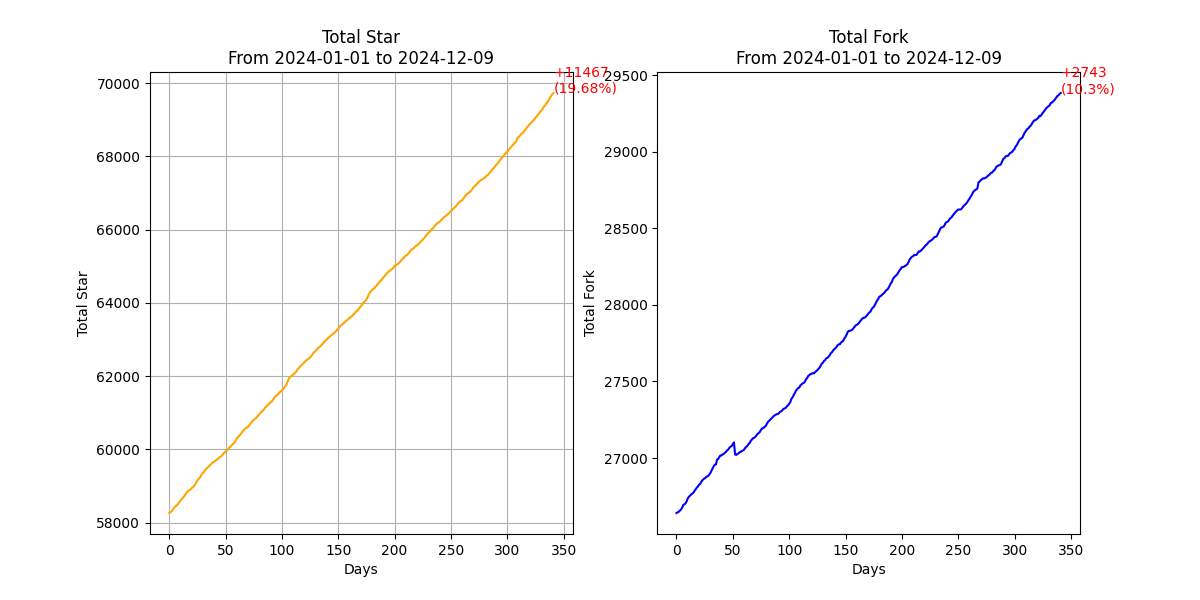
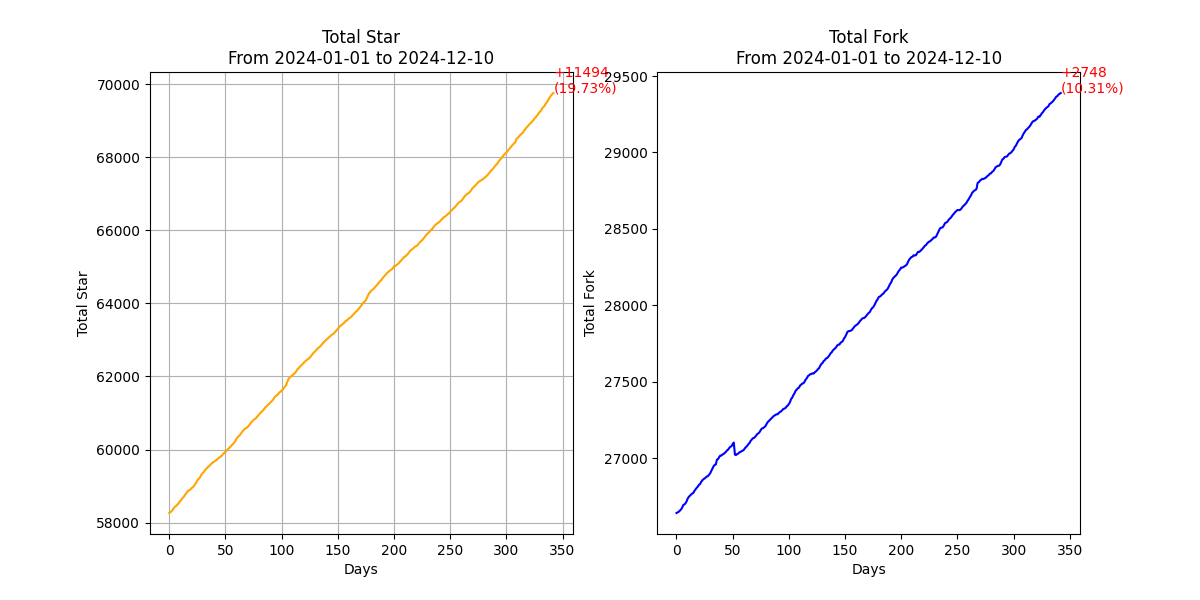
Update Espressif Systems Github Star Rank - 2024-12-10

diff --git a/rank_history/esp_rank_2024-12-09.md b/rank_history/esp_rank_2024-12-09.md
@@ -1,6 +1,6 @@
-# Espressif Systems Github Star Rank 2024-12-10
+# Espressif Systems Github Star Rank 2024-12-09
 
-## Total Star 🌟: 69800, Total Fork 🌳: 29395
+## Total Star 🌟: 69757, Total Fork 🌳: 29389
 
 [![Update Espressif Systems Github Star Rank](https://github.com/leeebo/espressif_star_counter/actions/workflows/update_rank.yml/badge.svg)](https://github.com/leeebo/espressif_star_counter/actions/workflows/update_rank.yml)
 
@@ -8,56 +8,56 @@
 
 | Repository | Stars | Forks | Description |
 |------------|-------|-------|-------------|
-| [esp-idf](https://github.com/espressif/esp-idf) | 13952 | 7338 | Espressif IoT Development Framework. Official development framework for Espressif SoCs. |
-| [arduino-esp32](https://github.com/espressif/arduino-esp32) | 13818 | 7448 | Arduino core for the ESP32 |
-| [esptool](https://github.com/espressif/esptool) | 5625 | 1388 | Espressif SoC serial bootloader utility |
-| [ESP8266_RTOS_SDK](https://github.com/espressif/ESP8266_RTOS_SDK) | 3352 | 1564 | Latest ESP8266 SDK based on FreeRTOS, esp-idf style. |
-| [esp-iot-solution](https://github.com/espressif/esp-iot-solution) | 2007 | 790 | Espressif IoT Library. IoT Device Drivers, Documentations and Solutions. |
-| [esp32-camera](https://github.com/espressif/esp32-camera) | 1958 | 649 | None |
-| [esp-who](https://github.com/espressif/esp-who) | 1720 | 469 | Face detection and recognition framework |
-| [esp-adf](https://github.com/espressif/esp-adf) | 1574 | 690 | Espressif Audio Development Framework |
-| [vscode-esp-idf-extension](https://github.com/espressif/vscode-esp-idf-extension) | 1089 | 308 | Visual Studio Code extension for ESP-IDF projects |
+| [esp-idf](https://github.com/espressif/esp-idf) | 13946 | 7337 | Espressif IoT Development Framework. Official development framework for Espressif SoCs. |
+| [arduino-esp32](https://github.com/espressif/arduino-esp32) | 13813 | 7446 | Arduino core for the ESP32 |
+| [esptool](https://github.com/espressif/esptool) | 5622 | 1388 | Espressif SoC serial bootloader utility |
+| [ESP8266_RTOS_SDK](https://github.com/espressif/ESP8266_RTOS_SDK) | 3351 | 1564 | Latest ESP8266 SDK based on FreeRTOS, esp-idf style. |
+| [esp-iot-solution](https://github.com/espressif/esp-iot-solution) | 2005 | 790 | Espressif IoT Library. IoT Device Drivers, Documentations and Solutions. |
+| [esp32-camera](https://github.com/espressif/esp32-camera) | 1956 | 649 | None |
+| [esp-who](https://github.com/espressif/esp-who) | 1719 | 469 | Face detection and recognition framework |
+| [esp-adf](https://github.com/espressif/esp-adf) | 1572 | 690 | Espressif Audio Development Framework |
+| [vscode-esp-idf-extension](https://github.com/espressif/vscode-esp-idf-extension) | 1087 | 308 | Visual Studio Code extension for ESP-IDF projects |
 | [ESP8266_NONOS_SDK](https://github.com/espressif/ESP8266_NONOS_SDK) | 932 | 536 | ESP8266 nonOS SDK |
 | [esp-at](https://github.com/espressif/esp-at) | 920 | 834 | AT application for ESP32/ESP32-C2/ESP32-C3/ESP32-C6/ESP8266 |
 | [esp-drone](https://github.com/espressif/esp-drone) | 843 | 244 | Mini Drone/Quadcopter Firmware for ESP32 and ESP32-S Series SoCs. |
-| [esp-box](https://github.com/espressif/esp-box) | 829 | 191 | The ESP-BOX is a new generation AIoT development platform released by Espressif Systems. |
+| [esp-box](https://github.com/espressif/esp-box) | 827 | 191 | The ESP-BOX is a new generation AIoT development platform released by Espressif Systems. |
 | [kicad-libraries](https://github.com/espressif/kicad-libraries) | 784 | 110 | KiCad libraries for Espressif SoCs, modules, and DevKits. |
 | [esp-mdf](https://github.com/espressif/esp-mdf) | 782 | 253 | Espressif Mesh Development Framework, limited maintain, recommend to use https://github.com/espressif/esp-mesh-lite |
 | [ESP8266_MP3_DECODER](https://github.com/espressif/ESP8266_MP3_DECODER) | 745 | 190 | A demo that should be run with ESP8266 Non-OS SDK |
-| [esp-csi](https://github.com/espressif/esp-csi) | 728 | 111 | Applications based on Wi-Fi CSI (Channel state information), such as indoor positioning, human detection |
+| [esp-csi](https://github.com/espressif/esp-csi) | 727 | 111 | Applications based on Wi-Fi CSI (Channel state information), such as indoor positioning, human detection |
 | [esp-hosted](https://github.com/espressif/esp-hosted) | 716 | 170 | Hosted Solution (Linux/MCU) with ESP32 (Wi-Fi + BT + BLE) |
-| [esp-matter](https://github.com/espressif/esp-matter) | 715 | 164 | Espressif's SDK for Matter |
+| [esp-matter](https://github.com/espressif/esp-matter) | 714 | 164 | Espressif's SDK for Matter |
 | [esp-apple-homekit-adk](https://github.com/espressif/esp-apple-homekit-adk) | 624 | 64 | This is a port for Apple's Open Source HomeKit ADK |
 | [esp-mqtt](https://github.com/espressif/esp-mqtt) | 617 | 258 | ESP32 mqtt component |
-| [esp-sr](https://github.com/espressif/esp-sr) | 600 | 107 | Speech recognition |
+| [esp-sr](https://github.com/espressif/esp-sr) | 599 | 107 | Speech recognition |
 | [esp-skainet](https://github.com/espressif/esp-skainet) | 593 | 135 | Espressif intelligent voice assistant |
 | [esp-dl](https://github.com/espressif/esp-dl) | 582 | 123 | Espressif deep-learning library for AIoT applications |
 | [esp-homekit-sdk](https://github.com/espressif/esp-homekit-sdk) | 571 | 109 | None |
-| [esp-now](https://github.com/espressif/esp-now) | 553 | 97 | A connectionless Wi-Fi communication protocol |
+| [esp-now](https://github.com/espressif/esp-now) | 552 | 97 | A connectionless Wi-Fi communication protocol |
 | [esp32-nesemu](https://github.com/espressif/esp32-nesemu) | 551 | 173 | Proof-of-concept NES emulator for the ESP32 |
 | [esp-dsp](https://github.com/espressif/esp-dsp) | 490 | 92 | DSP library for ESP-IDF |
 | [esp-rainmaker](https://github.com/espressif/esp-rainmaker) | 471 | 154 | ESP RainMaker Agent for firmware development |
 | [ESP8266_AT](https://github.com/espressif/ESP8266_AT) | 471 | 227 | This project is not maintained, please use https://github.com/espressif/esp-at. |
 | [rust-esp32-example](https://github.com/espressif/rust-esp32-example) | 449 | 36 | Example of Rust integration into an ESP-IDF project, for ESP32 series of chips |
-| [esp-tflite-micro](https://github.com/espressif/esp-tflite-micro) | 401 | 86 | TensorFlow Lite Micro for Espressif Chipsets |
+| [esp-tflite-micro](https://github.com/espressif/esp-tflite-micro) | 400 | 86 | TensorFlow Lite Micro for Espressif Chipsets |
 | [esp-serial-flasher](https://github.com/espressif/esp-serial-flasher) | 392 | 112 | Library for flashing Espressif SoCs from other MCUs. |
-| [esp-dev-kits](https://github.com/espressif/esp-dev-kits) | 373 | 185 | Docs, Schematics, Factory Firmwares for ESP Development Kits |
-| [openocd-esp32](https://github.com/espressif/openocd-esp32) | 363 | 134 | OpenOCD branch with ESP32 JTAG support |
+| [esp-dev-kits](https://github.com/espressif/esp-dev-kits) | 372 | 185 | Docs, Schematics, Factory Firmwares for ESP Development Kits |
+| [openocd-esp32](https://github.com/espressif/openocd-esp32) | 363 | 133 | OpenOCD branch with ESP32 JTAG support |
 | [esp-aliyun](https://github.com/espressif/esp-aliyun) | 341 | 151 | Aliyun Iotkit-embedded, support esp32 & esp8266. |
-| [esp-idf-template](https://github.com/espressif/esp-idf-template) | 336 | 201 | Template application for https://github.com/espressif/esp-idf |
-| [idf-eclipse-plugin](https://github.com/espressif/idf-eclipse-plugin) | 319 | 121 | Espressif-IDE (ESP-IDF Eclipse Plugin) for ESP-IDF CMake based projects 5.x and above |
-| [esp-usb-bridge](https://github.com/espressif/esp-usb-bridge) | 303 | 34 | USB to UART&JTAG bridge, implemented on ESP32-S2 or ESP32-S3 |
+| [esp-idf-template](https://github.com/espressif/esp-idf-template) | 335 | 201 | Template application for https://github.com/espressif/esp-idf |
+| [idf-eclipse-plugin](https://github.com/espressif/idf-eclipse-plugin) | 316 | 121 | Espressif-IDE (ESP-IDF Eclipse Plugin) for ESP-IDF CMake based projects 5.x and above |
+| [esp-usb-bridge](https://github.com/espressif/esp-usb-bridge) | 302 | 34 | USB to UART&JTAG bridge, implemented on ESP32-S2 or ESP32-S3 |
 | [esp-va-sdk](https://github.com/espressif/esp-va-sdk) | 295 | 83 | Espressif's Voice Assistant SDK: Alexa, Google Voice Assistant, Google DialogFlow |
 | [esptool-js](https://github.com/espressif/esptool-js) | 293 | 109 | Javascript implementation of flasher tool for Espressif chips, running in web browser using WebSerial. |
 | [esp-aws-iot](https://github.com/espressif/esp-aws-iot) | 273 | 165 | AWS IoT SDK for ESP32 based chipsets |
-| [esp-bsp](https://github.com/espressif/esp-bsp) | 210 | 109 | Board support components for Espressif development boards |
+| [esp-bsp](https://github.com/espressif/esp-bsp) | 209 | 108 | Board support components for Espressif development boards |
 | [esp-idf-provisioning-android](https://github.com/espressif/esp-idf-provisioning-android) | 204 | 138 | Android Provisioning application for ESP-IDF Unified provisioning |
-| [esp-protocols](https://github.com/espressif/esp-protocols) | 200 | 135 | Collection of ESP-IDF components related to networking protocols |
 | [esp32-doom](https://github.com/espressif/esp32-doom) | 200 | 39 | A proof-of-concept port of PrBoom to the ESP32. Needs psram hardware. |
+| [esp-protocols](https://github.com/espressif/esp-protocols) | 199 | 135 | Collection of ESP-IDF components related to networking protocols |
 | [ESP31_RTOS_SDK](https://github.com/espressif/ESP31_RTOS_SDK) | 188 | 58 | ESP31B SDK based on FreeRTOS. For ESP32 please see http://github.com/espressif/esp-idf |
 | [esp-jumpstart](https://github.com/espressif/esp-jumpstart) | 179 | 58 | Jumpstart from concept to production |
 | [esp-azure](https://github.com/espressif/esp-azure) | 178 | 93 | SDK to connect ESP8266 and ESP32 to Microsoft Azure IoT services |
-| [esp-zigbee-sdk](https://github.com/espressif/esp-zigbee-sdk) | 178 | 32 | Espressif Zigbee SDK |
+| [esp-zigbee-sdk](https://github.com/espressif/esp-zigbee-sdk) | 178 | 31 | Espressif Zigbee SDK |
 | [esp-iot-bridge](https://github.com/espressif/esp-iot-bridge) | 167 | 54 | A smart bridge to make both ESP and the other MCU or smart device can access the Internet. |
 | [esp32-wifi-lib](https://github.com/espressif/esp32-wifi-lib) | 167 | 71 | ESP32 WiFi stack precompiled libraries |
 | [esp-gdbstub](https://github.com/espressif/esp-gdbstub) | 162 | 38 | None |
@@ -85,14 +85,14 @@
 | [esp32c3-direct-boot-example](https://github.com/espressif/esp32c3-direct-boot-example) | 69 | 18 | Example of ESP32-C3 (rev. 3 and later) "direct boot" feature. |
 | [esp8266-nonos-sample-code](https://github.com/espressif/esp8266-nonos-sample-code) | 66 | 41 | None |
 | [esp-adf-libs](https://github.com/espressif/esp-adf-libs) | 61 | 41 | None |
-| [esp-brookesia](https://github.com/espressif/esp-brookesia) | 61 | 10 | ESP-Brookesia is a human-machine interaction development framework designed for AIoT devices. |
+| [esp-brookesia](https://github.com/espressif/esp-brookesia) | 60 | 10 | ESP-Brookesia is a human-machine interaction development framework designed for AIoT devices. |
 | [esp-moonlight](https://github.com/espressif/esp-moonlight) | 59 | 35 | None |
 | [svd](https://github.com/espressif/svd) | 59 | 2 | SVD files for Espressif devices |
 | [freertos-gdb](https://github.com/espressif/freertos-gdb) | 58 | 9 | Python module for operating with freeRTOS kernel objects in GDB |
 | [openocd-on-esp32](https://github.com/espressif/openocd-on-esp32) | 57 | 6 | OpenOCD port running on ESP32-S3 microcontrollers |
 | [xtensa-isa-doc](https://github.com/espressif/xtensa-isa-doc) | 51 | 4 | None |
 | [esp-rainmaker-ios](https://github.com/espressif/esp-rainmaker-ios) | 48 | 25 | ESP RainMaker iOS app sources |
-| [idf-component-manager](https://github.com/espressif/idf-component-manager) | 48 | 17 | Tool for installing ESP-IDF components |
+| [idf-component-manager](https://github.com/espressif/idf-component-manager) | 47 | 17 | Tool for installing ESP-IDF components |
 | [binutils-esp32ulp](https://github.com/espressif/binutils-esp32ulp) | 46 | 18 | Binutils fork with support for the ESP32 ULP co-processor |
 | [esp-launchpad](https://github.com/espressif/esp-launchpad) | 45 | 15 | Configurable Browser-based Image Flasher |
 | [esp32-c3-book-en](https://github.com/espressif/esp32-c3-book-en) | 41 | 5 | Read the book here: |
@@ -187,7 +187,6 @@
 | [esp-flash-drivers](https://github.com/espressif/esp-flash-drivers) | 2 | 2 | Project to hold 3rd party flash drivers |
 | [esp-idf-panic-decoder](https://github.com/espressif/esp-idf-panic-decoder) | 2 | 1 | None |
 | [esp-rainmaker-custom-development](https://github.com/espressif/esp-rainmaker-custom-development) | 2 | 0 | ESP RainMaker Custom Development |
-| [esp32-scummvm](https://github.com/espressif/esp32-scummvm) | 2 | 0 | ScummVM port to ESP32-P4 |
 | [esptool-legacy-flasher-stub](https://github.com/espressif/esptool-legacy-flasher-stub) | 2 | 5 | None |
 | [iperf-cmd](https://github.com/espressif/iperf-cmd) | 2 | 0 | None |
 | [sync-jira-actions](https://github.com/espressif/sync-jira-actions) | 2 | 4 | GitHub Actions for syncing the project with the Espressif Jira system |
